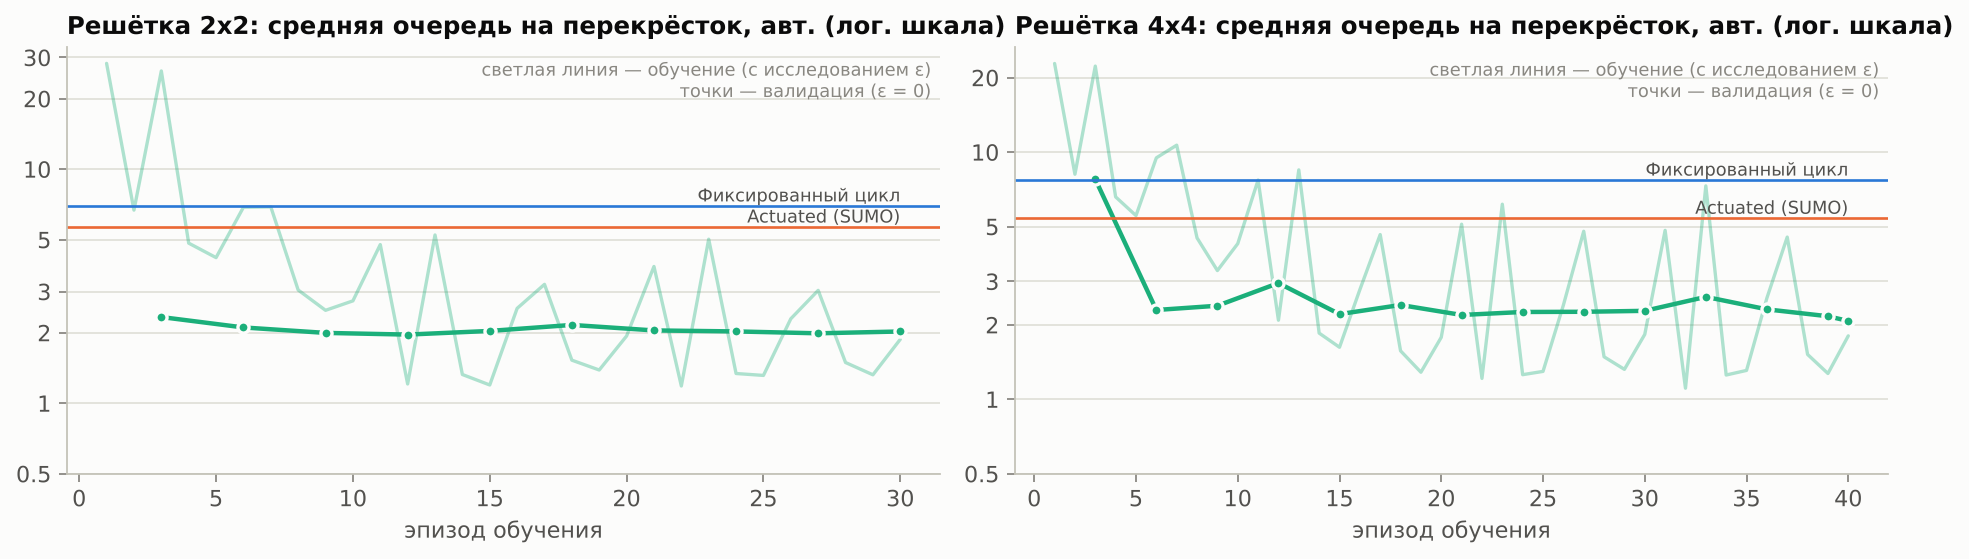
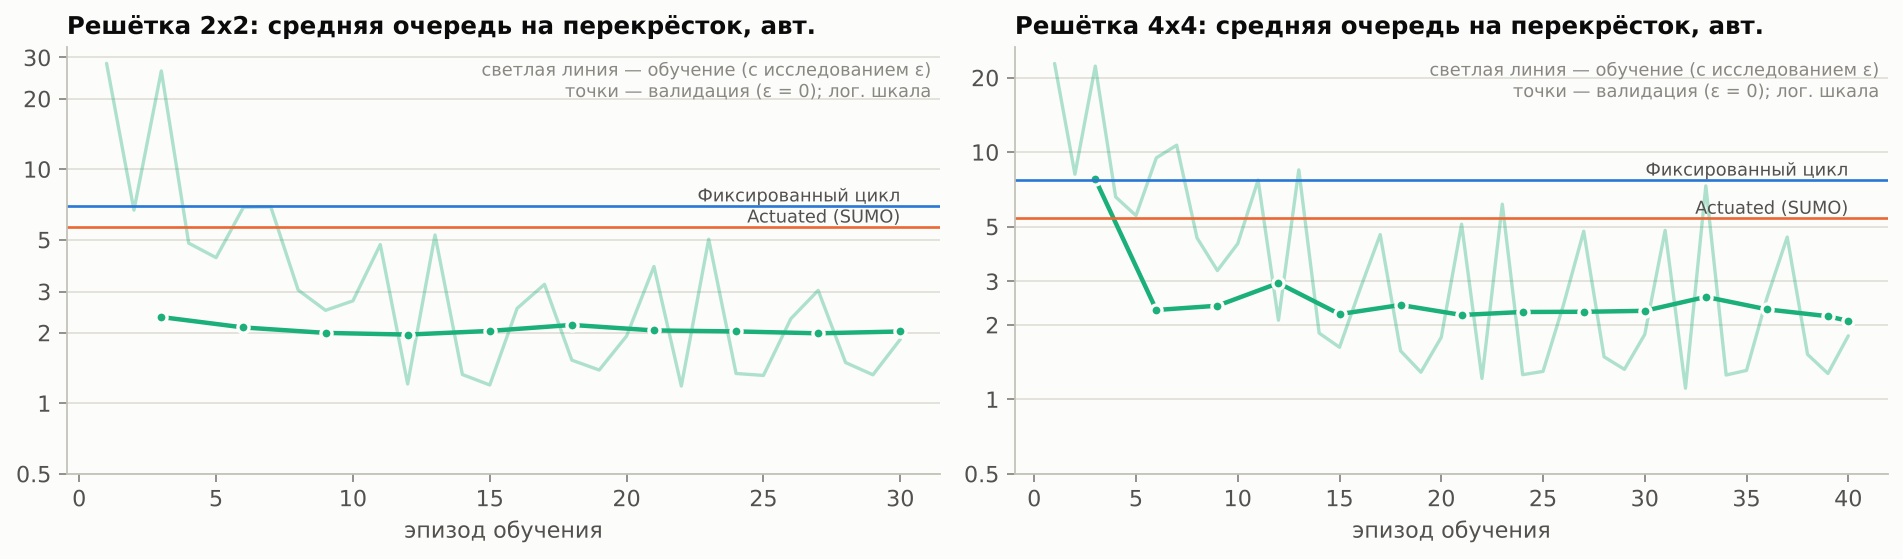
agents: абляция (min_green, gamma), анализ результатов, флаги экспериментов
- train.py: --min-green, --gamma, --out-dir; параметры среды пишутся в meta.json
- evaluate: модели оцениваются с параметрами среды из meta.json, models_dir
- reports/ablation_grid4x4.csv, выводы и ограничения в README
- графики: легенда без наложений, подписи без коллизий

Claude-Session: https://claude.ai/code/session_013CiNDkHrxDNbz9UFV1zTuw

diff --git a/agents/evaluate.py b/agents/evaluate.py
@@ -93,7 +93,10 @@ def run_episode(sc: Scenario, route_file: Path, mode: str, seed: int = 0, agents
         tripinfo, stats = Path(tmp) / "tripinfo.xml", Path(tmp) / "stats.xml"
         extra = ["--tripinfo-output", str(tripinfo), "--tripinfo-output.write-unfinished", "true",
                  "--statistic-output", str(stats)]
-        env = make_env(sc, route_file, mode, seed=seed, extra_args=extra, use_gui=use_gui)
+        # RL: среда с теми же параметрами (min_green и т. п.), что при обучении
+        env_params = agents.meta.get("env_params") if mode == "rl" else None
+        env = make_env(sc, route_file, mode, seed=seed, extra_args=extra, use_gui=use_gui,
+                       env_params=env_params)
         t0 = time.time()
         try:
             obs = env.reset()
@@ -132,14 +135,16 @@ def run_episode(sc: Scenario, route_file: Path, mode: str, seed: int = 0, agents
 
 def evaluate(network_path: str | Path, mode: str, *, demand: str = "nominal",
              seeds: tuple[int, ...] | list[int] | None = None,
-             route_files: list[str | Path] | None = None) -> dict:
+             route_files: list[str | Path] | None = None,
+             models_dir: str | Path | None = None) -> dict:
     """Метрики режима управления светофорами на сети (контракт agents/).
 
     network_path — ``grid2x2``/``grid4x4``/``sim``, путь к .net.xml или к
     network.json (формат контракта). mode — ``fixed`` | ``actuated`` | ``rl``.
     demand — ``low`` | ``nominal`` | ``high``; seeds — семена спроса
     (по умолчанию config.EVAL_SEEDS); route_files — свои файлы маршрутов
-    SUMO вместо сгенерированных.
+    SUMO вместо сгенерированных; models_dir — другая папка моделей
+    (по умолчанию agents/models/<сеть>/).
     """
     if mode not in MODES:
         raise ValueError(f"mode должен быть одним из {MODES}, получено: {mode!r}")
@@ -150,7 +155,7 @@ def evaluate(network_path: str | Path, mode: str, *, demand: str = "nominal",
     if mode == "rl":
         from agents.dqn import IndependentDQN
 
-        agents = IndependentDQN.load(sc.models_dir)
+        agents = IndependentDQN.load(Path(models_dir) if models_dir else sc.models_dir)
 
     runs = []
     for i, route in enumerate(routes):
@@ -179,8 +184,9 @@ def main() -> None:
     ap.add_argument("--mode", default="rl", choices=MODES)
     ap.add_argument("--demand", default="nominal", choices=list(config.EVAL_DEMAND_LEVELS))
     ap.add_argument("--seeds", type=int, nargs="+", default=None)
+    ap.add_argument("--models-dir", default=None, help="папка моделей (по умолчанию agents/models/<сеть>)")
     args = ap.parse_args()
-    res = evaluate(args.network, args.mode, demand=args.demand, seeds=args.seeds)
+    res = evaluate(args.network, args.mode, demand=args.demand, seeds=args.seeds, models_dir=args.models_dir)
     res.pop("per_tls")
     print(json.dumps(res, ensure_ascii=False, indent=2))
 

diff --git a/agents/env.py b/agents/env.py
@@ -267,14 +267,18 @@ class TrafficEnv(SumoEnvironment):
 
 def make_env(sc: Scenario, route_file: Path, mode: str = "rl", seed: int = 0,
              extra_args: list[str] | None = None, use_gui: bool = False,
-             num_seconds: int | None = None) -> TrafficEnv:
+             num_seconds: int | None = None, env_params: dict | None = None) -> TrafficEnv:
     """Создаёт многоагентную среду sumo-rl для сценария.
 
     mode:
       * ``rl`` — фазами управляют агенты (действия из step());
       * ``fixed`` — исходная статическая программа сети, действия игнорируются;
       * ``actuated`` — то же, но с actuated-программой из tls_actuated.add.xml.
+
+    env_params — переопределение config.ENV_PARAMS (например, параметры, с
+    которыми обучалась модель: они хранятся в её meta.json).
     """
+    ep = {**config.ENV_PARAMS, **(env_params or {})}
     if mode not in MODES:
         raise ValueError(f"mode должен быть одним из {MODES}, получено: {mode!r}")
     args = list(extra_args or [])
@@ -285,11 +289,11 @@ def make_env(sc: Scenario, route_file: Path, mode: str = "rl", seed: int = 0,
         route_file=str(route_file),
         use_gui=use_gui,
         num_seconds=num_seconds or config.EPISODE_SECONDS,
-        delta_time=config.ENV_PARAMS["delta_time"],
-        yellow_time=config.ENV_PARAMS["yellow_time"],
-        min_green=config.ENV_PARAMS["min_green"],
-        max_green=config.ENV_PARAMS["max_green"],
-        time_to_teleport=config.ENV_PARAMS["time_to_teleport"],
+        delta_time=ep["delta_time"],
+        yellow_time=ep["yellow_time"],
+        min_green=ep["min_green"],
+        max_green=ep["max_green"],
+        time_to_teleport=ep["time_to_teleport"],
         reward_fn=queue_reward,
         observation_class=ApproachObservation,
         add_system_info=False,

diff --git a/agents/train.py b/agents/train.py
@@ -148,9 +148,22 @@ def main() -> None:
     ap.add_argument("--episodes", type=int, default=config.TRAIN_EPISODES)
     ap.add_argument("--seed", type=int, default=0)
     ap.add_argument("--validate-every", type=int, default=config.VALIDATE_EVERY)
+    # Для экспериментов (абляции): параметры записываются в meta.json модели
+    # и автоматически применяются при её оценке.
+    ap.add_argument("--min-green", type=int, default=None, help="минимальный зелёный, с (по умолчанию 5)")
+    ap.add_argument("--gamma", type=float, default=None, help="коэффициент дисконтирования DQN (по умолчанию 0.95)")
+    ap.add_argument("--out-dir", default=None, help="куда сохранить модели (по умолчанию agents/models/<сеть>)")
     args = ap.parse_args()
-    for spec in args.scenario or default_scenarios():
-        train(spec, episodes=args.episodes, seed=args.seed, validate_every=args.validate_every)
+    if args.min_green is not None:
+        config.ENV_PARAMS["min_green"] = args.min_green
+    if args.gamma is not None:
+        config.DQN_PARAMS["gamma"] = args.gamma
+    specs = args.scenario or default_scenarios()
+    if args.out_dir and len(specs) > 1:
+        ap.error("--out-dir можно указать только для одной сети")
+    for spec in specs:
+        train(spec, episodes=args.episodes, seed=args.seed, validate_every=args.validate_every,
+              out_dir=Path(args.out_dir) if args.out_dir else None)
 
 
 if __name__ == "__main__":

diff --git a/agents/tests/test_agents.py b/agents/tests/test_agents.py
@@ -127,3 +127,13 @@ def test_evaluate_rl(grid2x2):
     res = evaluate(grid2x2.network_json, "rl", seeds=[config.EVAL_SEEDS[0]])
     assert res["mode"] == "rl" and res["avg_travel_time"] > 0
     assert res["teleports"] == 0
+
+
+def test_env_params_override(grid2x2):
+    """Параметры среды модели (из meta.json) переопределяют config.ENV_PARAMS."""
+    env = make_env(grid2x2, grid2x2.eval_route("nominal", config.EVAL_SEEDS[0]), "rl", seed=1,
+                   env_params={"min_green": 10})
+    try:
+        assert env.min_green == 10 and env.delta_time == config.ENV_PARAMS["delta_time"]
+    finally:
+        env.close()

diff --git a/agents/README.md b/agents/README.md
@@ -18,7 +18,10 @@
    RL-агенты — по среднему времени в пути, ожиданию и длине очереди. Графики и итоговая таблица —
    в `agents/reports/`.
 5. **`agents/evaluate.py`** — функция `evaluate(network_path, mode)` по контракту.
-6. Проверено, что весь конвейер работает и на реальной сети района из `map.osm`
+6. **Защитное правило максимального ожидания** (90 с) поверх политики — закрывает найденный при
+   анализе редкий сбой агентов; доля вмешательств измеряется.
+7. **Абляция** (минимальный зелёный, γ) и разбор, почему RL проседает при перегрузке сети 4×4.
+8. Проверено, что весь конвейер работает и на реальной сети района из `map.osm`
    (33 светофора, см. «Интеграция с sim/»).
 
 ## Результаты
@@ -48,7 +51,50 @@
 
 ![Кривые обучения](reports/fig_training.png)
 
-<!-- ANALYSIS -->
+### Выводы
+
+1. **При низком и номинальном спросе RL-агенты лучше обоих базовых режимов на обеих сетях**:
+   относительно фиксированного цикла время в пути −24…−27%, ожидание −68…−71%, очередь −70…−77%;
+   у actuated −7…−13%, −25…−32% и −22…−35% соответственно. Выигрыш есть и в «справедливости»:
+   95-й процентиль ожидания −63…−69%, т. е. ни одно направление не «жертвуется».
+2. **Чему научились агенты.** Короткий адаптивный цикл: фаза обычно держится 10–12 с (минимум,
+   который разрешает среда: 3 с жёлтого + 5 с зелёного + шаг решения), защищённые левые фазы
+   включаются редко (0–20% времени), левые повороты идут «с уступанием». При неполной загрузке это
+   резко сокращает ожидание: машины не стоят перед пустым перекрёстком. Actuated не умеет
+   пропускать фазы и тратит на цикл не меньше 4 × (5 + 3) = 32 с.
+3. **Устойчивость к нагрузке.** На 2×2 RL лучше на всех уровнях, включая высокий (−22.5% времени
+   в пути). На 4×4 при высоком спросе (×1.2, сеть близка к насыщению) преимущество по времени в пути
+   исчезает: 214.8 ± 25.2 с против 212.2 у фиксированного цикла, actuated здесь лучший (177.3 с).
+   Очереди на подходах у RL при этом самые короткие (5.1 против 7.8 у actuated): агент оптимизирует
+   то, что видит. Короткие циклы теряют ~30% времени на жёлтый, пропускная способность падает, хвосты
+   уходят туда, где их не видит ни один агент, — за границу сети (задержка въезда 23–55 с против
+   ~0 у actuated) и в соседние перекрёстки. Это известное ограничение независимых агентов с
+   локальной наградой.
+4. **Проверка гиперпараметров** (абляция на 4×4, те же тестовые варианты спроса,
+   `reports/ablation_grid4x4.csv`):
+
+| Спрос | Вариант | Время в пути, с | Ожидание, с | Очередь, авт. | Телепорт. за прогон |
+|---|---|---|---|---|---|
+| номинальный | фиксированный цикл | 184.4 ± 1.0 | 75.3 | 7.63 | 0.0 |
+| номинальный | actuated | 160.6 ± 0.7 | 51.7 | 5.52 | 0.0 |
+| номинальный | **RL: базовый (min_green 5 с, γ 0.95)** | 134.4 ± 1.1 | 23.8 | 2.12 | 0.0 |
+| номинальный | RL: min_green 10 с | 154.3 ± 4.1 | 37.5 | 3.05 | 0.0 |
+| номинальный | RL: γ 0.99 | 133.8 ± 4.5 | 23.7 | 2.10 | 0.0 |
+| высокий | фиксированный цикл | 212.2 ± 5.0 | 94.9 | 10.02 | 0.0 |
+| высокий | actuated | 177.3 ± 1.6 | 65.1 | 7.76 | 0.0 |
+| высокий | **RL: базовый (min_green 5 с, γ 0.95)** | 214.8 ± 25.2 | 69.6 | 5.09 | 2.0 |
+| высокий | RL: min_green 10 с | 201.0 ± 5.4 | 68.5 | 5.20 | 0.0 |
+| высокий | RL: γ 0.99 | 234.7 ± 35.3 | 86.0 | 6.12 | 14.0 |
+
+   Минимальный зелёный 10 с убирает срывы при перегрузке (0 телепортаций, разброс 5.4 с вместо
+   25.2 с), но ухудшает работу при номинальном спросе на 15%; γ = 0.99 ничего не даёт. Значит,
+   дело не в гиперпараметрах, а в постановке (локальная награда, нет координации). Следующие шаги —
+   см. «Ограничения и развитие». В основной конфигурации оставлен базовый вариант как лучший в
+   рабочем диапазоне нагрузок.
+5. **Обучение быстрое**: на валидации RL обгоняет actuated уже к 3–6-му эпизоду, дальше кривая
+   выходит на плато (`fig_training.png`). Время обучения: 2×2 — ~7 мин, 4×4 — ~37 мин на одном ядре.
+6. **Защитное правило** почти не вмешивается: 0.02–0.06% решений при низком и номинальном спросе,
+   0.8% — при высоком на 4×4.
 
 ## Быстрый старт
 
@@ -59,7 +105,7 @@ pip install -r agents/requirements.txt
 
 # Все команды — из корня репозитория
 python -m agents.networks                  # построить сети и маршруты (≈1 мин)
-python -m agents.train                     # обучить агентов (2×2 ≈ 10 мин, 4×4 ≈ 75 мин на 1 ядре)
+python -m agents.train                     # обучить агентов (2×2 ≈ 7 мин, 4×4 ≈ 40 мин на 1 ядре)
 python -m agents.compare                   # сравнение режимов → agents/reports/ (≈10 мин)
 python -m agents.evaluate --network grid4x4 --mode rl
 python -m pytest agents/tests -q           # тесты (≈1 мин)
@@ -76,6 +122,10 @@ python -m agents.train --scenario grid4x4 --episodes 40
 python -m agents.train --scenario path/to/other.net.xml     # любая сеть SUMO
 python -m agents.compare --scenario grid2x2 --levels nominal --seeds 101
 python -m agents.compare --plots-only                       # перерисовать графики из results.csv
+
+# эксперимент (абляция): параметры сохраняются в meta.json модели и применяются при оценке
+python -m agents.train --scenario grid4x4 --episodes 40 --min-green 10 --out-dir agents/models/_ablation/mg10
+python -m agents.evaluate --network grid4x4 --mode rl --demand high --models-dir agents/models/_ablation/mg10
 ```
 
 ## Интерфейс для других частей (контракт)
@@ -90,7 +140,8 @@ m["avg_travel_time"], m["avg_waiting_time"], m["avg_queue_length"]
 `network_path` может быть: `grid2x2` / `grid4x4` / `sim`, путём к `.net.xml` SUMO или к
 `network.json` в формате контракта (если рядом нет `.net.xml`, граф конвертируется в сеть SUMO
 через `netconvert`). Дополнительно: `demand="low"|"nominal"|"high"`, `seeds=[...]` (по умолчанию
-3 тестовых варианта спроса; `seeds=[101]` — в 3 раза быстрее), `route_files=[...]` — свой спрос.
+3 тестовых варианта спроса; `seeds=[101]` — в 3 раза быстрее), `route_files=[...]` — свой спрос,
+`models_dir=...` — другая папка моделей.
 
 Возвращаемый словарь:
 
@@ -132,7 +183,7 @@ m["avg_travel_time"], m["avg_waiting_time"], m["avg_queue_length"]
 | `tests/` | тесты (pytest) |
 | `networks/grid2x2`, `networks/grid4x4` | сети SUMO, actuated-программы, `network.json` |
 | `models/<сеть>/` | `tls_<id>.zip` — модели SB3, `meta.json` — описание, `training_log.csv` — лог обучения |
-| `reports/` | `summary.md`, `summary.csv`, `results.csv`, `details.csv`, `fig_*.png` |
+| `reports/` | `summary.md`, `summary.csv`, `results.csv`, `details.csv`, `ablation_grid4x4.csv`, `fig_*.png` |
 
 ## Постановка задачи
 
@@ -198,7 +249,7 @@ m["avg_travel_time"], m["avg_waiting_time"], m["avg_queue_length"]
 такую машину. Так устроены и реальные адаптивные системы: обучаемая логика работает внутри
 ограничений безопасности. Правило действует и при обучении (в буфер попадает фактически
 выполненное действие), и при оценке; доля скорректированных решений выводится как `guard_rate`
-(на тесте — порядка 0.01–0.1 % решений).
+(на тесте — 0.02–0.06% решений при низком и номинальном спросе, 0.8% при высоком на 4×4).
 
 ### Алгоритм: независимые DQN
 
@@ -274,8 +325,13 @@ m["avg_travel_time"], m["avg_waiting_time"], m["avg_queue_length"]
 
 * Фиксированный цикл — стандартный план SUMO с равными фазами, а не оптимизированный по Вебстеру;
   для более строгой базы можно добавить `tlsCycleAdaptation.py` из утилит SUMO.
-* Агенты не обмениваются информацией; следующий шаг — признаки соседей в состоянии или
-  координация (MA2C, CoLight, награда «давления» `pressure`).
+* Агенты не обмениваются информацией и видят только свои подходы — отсюда просадка 4×4 при
+  перегрузке (вывод 3). Следующие шаги: признаки соседей в состоянии, награда «давления»
+  (`pressure`: учитывает и выходящие полосы, т. е. спилбэк), координация (MA2C, CoLight), больше
+  перегруженных сценариев в обучении; как простое инженерное решение — гибрид «RL в рабочем
+  диапазоне, actuated при насыщении».
+* Пешеходы не моделируются, поэтому минимальный зелёный 5 с (значение sumo-rl по умолчанию)
+  оптимистичен; при 10 с выигрыш RL при номинальном спросе меньше (см. абляцию).
 * Модель привязана к светофору и числу его фаз: после изменения сети, меняющего фазы
   (закрытие подхода, новый светофор), агента нужно дообучить.
 * Время в пути считается от момента въезда в сеть; задержка въезда (`avg_depart_delay`) выводится
